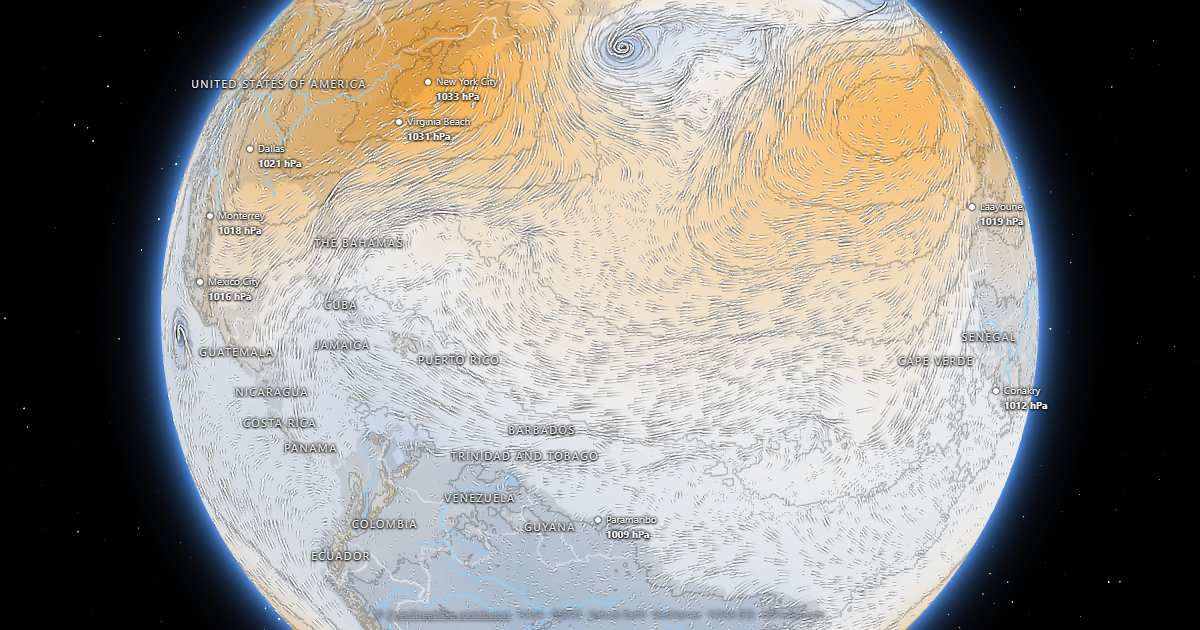
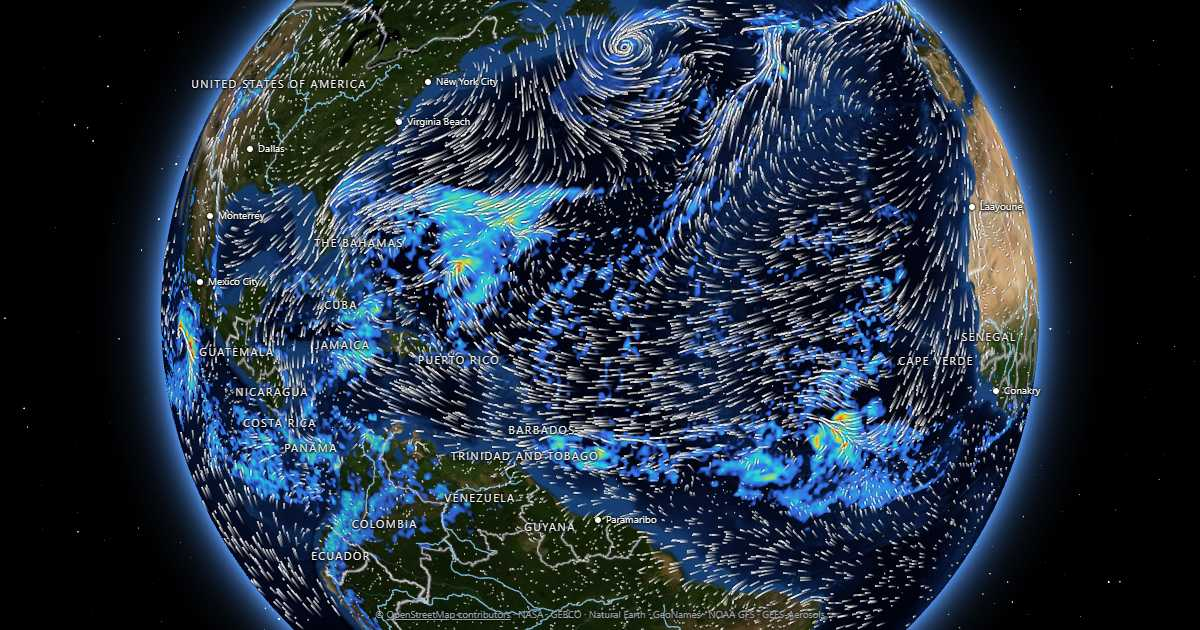
feat(pages): ouragans en couche pluie avec le vent
Même choix que la page typhons (décision utilisateur) : la pluie montre
mieux la structure d'un cyclone que la pression ; textes et image de
partage refaits.

diff --git a/web/src/pages/registry.ts b/web/src/pages/registry.ts
@@ -206,19 +206,19 @@ export const PAGES: readonly PageDef[] = [
     related: ["temperature-map", "pressure-map", "wind-map"],
   },
   {
-    slug: "atlantic-hurricane-map", kind: "region", layer: "pressure", windForced: true,
+    slug: "atlantic-hurricane-map", kind: "region", layer: "rain", windForced: true,
     view: { lon: -55, lat: 22, d: 2.0 },
-    title: "Atlantic Hurricane Wind and Pressure Map on a 3D Globe",
-    description: "Atlantic hurricane wind map on a 3D globe: animated wind and sea-level pressure over the tropical Atlantic, with a 48-hour forecast from NOAA GFS.",
-    h1: "Atlantic hurricane wind and pressure map",
-    summary: "The globe looks at the tropical Atlantic with the wind switched on over sea-level pressure. A hurricane shows up as a tight spiral of fast streamlines around a small area of very low pressure.",
+    title: "Atlantic Hurricane Map: Wind and Rain on a 3D Globe",
+    description: "Atlantic hurricane map on a 3D globe: animated wind and rain over the tropical Atlantic, with a 48-hour forecast from NOAA GFS.",
+    h1: "Atlantic hurricane wind and rain map",
+    summary: "The globe looks at the tropical Atlantic with the wind switched on over the rain layer. A hurricane shows up as a tight spiral of fast streamlines wrapped in curved bands of heavy rain.",
     body: [
-      "Hurricanes form over warm tropical water, mostly between June and November, and this view is centred on the region where they develop. It combines animated surface wind with sea-level pressure, so you can recognise a strong system by its shape.",
-      "A mature storm has two signs. In the pressure layer it appears as a small, closed set of isobars packed tightly around a very low centre, often below 980 hPa. In the wind layer, streamlines circle that centre anticlockwise, and the fastest air forms a ring close to it.",
-      "Weaker systems look like open waves or broad, loose swirls with little pressure drop. They may or may not develop. Watch how the swirl tightens as you move through the forecast, and how the flow of the surrounding trade winds steers it west.",
+      "Hurricanes form over warm tropical water, mostly between June and November, and this view is centred on the region where they develop. It combines animated surface wind with rainfall, so you can recognise a strong system by its shape.",
+      "A mature storm has two signs. In the rain layer it appears as curved bands of heavy rain spiralling into a compact centre. In the wind, streamlines circle that centre anticlockwise, and the fastest air forms a ring close to it. Switch to the Pressure layer to see the very low centre, often below 980 hPa.",
+      "Weaker systems look like open waves or broad, loose swirls of scattered showers. They may or may not develop. Watch how the swirl tightens as you move through the forecast, and how the flow of the surrounding trade winds steers it west.",
       "This is a global model with a 0.25 degree grid, around 28 kilometres, which is too coarse to resolve the sharp core of a storm, so winds in the centre are underestimated. For official warnings and the position of named storms, always rely on national hurricane services.",
     ],
-    menuLabel: "Atlantic hurricanes", ogImage: "/og/atlantic-hurricane-map.jpg", ogAlt: "Wind and pressure over the Atlantic on a 3D globe",
+    menuLabel: "Atlantic hurricanes", ogImage: "/og/atlantic-hurricane-map.jpg", ogAlt: "Wind and rain over the tropical Atlantic on a 3D globe",
     related: ["wind-map", "pressure-map", "pacific-typhoon-map"],
   },
   {
